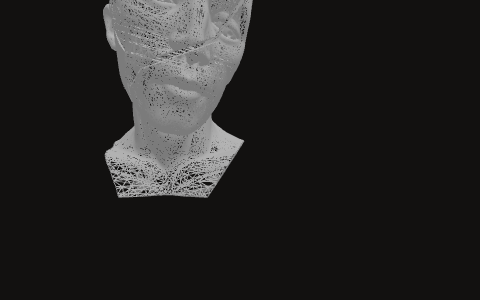
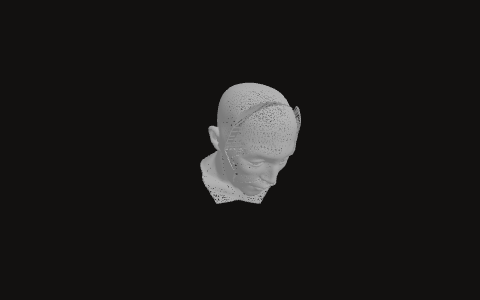
feat: generalist positioning and centred 3D models
- hero, about and meta reframed around generalist with specialization
- six-part capability map, oversized glyph removed
- centre models on their bounds, aim camera, pull back 14%
- regenerate thumbnails with margin; keep live hover preview
- more room for the chapter rail

Changed region(s): [[0.1875, 0.0, 0.625, 0.69]]

diff --git a/app/routes/home.tsx b/app/routes/home.tsx
@@ -11,8 +11,6 @@ import { UmlArchitecture } from "~/components/UmlArchitecture";
 import { Workflow } from "~/components/Workflow";
 import { Timeline } from "~/components/Timeline";
 import { FbxModelViewer } from "~/components/FbxModelViewer";
-import { LineArt } from "~/components/LineArt";
-import { ScrollDraw } from "~/components/ScrollDraw";
 import { caseStudies } from "~/data/caseStudies";
 import { craftProjects } from "~/data/craftProjects";
 import { demos } from "~/data/demos";
@@ -22,7 +20,7 @@ import { usePageBackground } from "~/hooks/usePageBackground";
 
 export const meta: Route.MetaFunction = () =>
   pageMeta({
-    title: "Lefinno Kwok | Engineering and craft",
+    title: "Lefinno Kwok | Generalist with a specialization",
     path: "/",
   });
 
@@ -60,11 +58,12 @@ export default function Home() {
         <div className="container section-hero">
           <GhostWord word="ENGINEERING" />
           <span className="eyebrow">Engineering / 01</span>
-          <h2 className="section-hero__title">I build AI systems that can be audited.</h2>
+          <h2 className="section-hero__title">Broad by default. Deep where it matters.</h2>
           <p className="lede">
-            Integration, infrastructure and research for systems where being
-            wrong is expensive. The work below is public; client engagements
-            are described only at the level of the engagement.
+            I am a generalist with a specialization in AI and ML. I move
+            between product, software, hardware and research, and go deep where
+            the risk is. Most of what I do is make an idea real, then explain it
+            clearly enough that someone else can run it.
           </p>
           <div className="hero-actions">
             <a className="btn btn--solid" href="#case-pdss">
@@ -89,42 +88,83 @@ export default function Home() {
         </div>
 
         <div className="container">
-          <SectionHead num="03" title="Capabilities" />
+          <SectionHead num="03" title="Capabilities" range="Range and depth" />
+          <p className="capabilities__lede">
+            Generalist breadth with specialist depth. I am most useful at the
+            seam between disciplines: scoping the idea, building the system, and
+            translating it for the people who have to run it.
+          </p>
           <div className="skill-grid">
             <div className="skill-block">
-              <h3>AI systems</h3>
+              <div className="skill-block__top">
+                <span className="skill-block__num">01</span>
+                <span className="skill-block__tag">Range</span>
+              </div>
+              <h3>Product and delivery</h3>
               <p>
-                LLM orchestration, evaluation design, Bayesian networks,
-                decision processes, multi-criteria analysis, uncertainty
-                quantification and provenance.
+                Scoping ambiguous briefs, writing proposals, coordinating across
+                teams, and carrying an idea from demo to something someone else
+                can run.
               </p>
             </div>
             <div className="skill-block">
-              <h3>Integration</h3>
+              <div className="skill-block__top">
+                <span className="skill-block__num">02</span>
+                <span className="skill-block__tag">Range</span>
+              </div>
+              <h3>Software</h3>
               <p>
-                Single sign-on, directory synchronisation, data access
-                services, alerting and vendor adaptation, in Go, Rust and Java.
+                TypeScript and React, Go, Rust, Java and Python. Frontends,
+                APIs, data access and integration; typed boundaries over glue.
               </p>
             </div>
             <div className="skill-block">
-              <h3>Infrastructure</h3>
+              <div className="skill-block__top">
+                <span className="skill-block__num">03</span>
+                <span className="skill-block__tag">Specialization</span>
+              </div>
+              <h3>AI and ML</h3>
               <p>
-                Linux, Docker, Kubernetes, systemd, Caddy, offline deployment,
-                high availability, audit trails and backups.
+                LLM orchestration, evaluation design, Bayesian decision models,
+                computer vision, uncertainty and provenance. The area where I go
+                deepest.
               </p>
             </div>
             <div className="skill-block">
-              <h3>Research</h3>
+              <div className="skill-block__top">
+                <span className="skill-block__num">04</span>
+                <span className="skill-block__tag">Depth</span>
+              </div>
+              <h3>Systems and infrastructure</h3>
+              <p>
+                Linux, Docker, Kubernetes, networking, offline deployment, high
+                availability, observability and backups.
+              </p>
+            </div>
+            <div className="skill-block">
+              <div className="skill-block__top">
+                <span className="skill-block__num">05</span>
+                <span className="skill-block__tag">Range</span>
+              </div>
+              <h3>Hardware and interaction</h3>
+              <p>
+                KiCad boards, ESP32 firmware, FreeCAD and 3D printing, game
+                engines and interactive installations.
+              </p>
+            </div>
+            <div className="skill-block">
+              <div className="skill-block__top">
+                <span className="skill-block__num">06</span>
+                <span className="skill-block__tag">Range</span>
+              </div>
+              <h3>Research and communication</h3>
               <p>
                 Literature-grounded design, baseline evaluation, failure
-                analysis and technical writing. Comfortable publishing
-                limitations, not just results.
+                analysis and technical writing. Explaining tradeoffs to
+                technical and non-technical teams.
               </p>
             </div>
           </div>
-          <ScrollDraw>
-            <LineArt variant="connector" className="" />
-          </ScrollDraw>
         </div>
 
         <div className="container">
@@ -273,7 +313,7 @@ export default function Home() {
           <h2 className="section-hero__title">One workflow, many systems.</h2>
           <p className="lede">
             A repeatable path from an unclear problem to something that can be
-            operated and audited. The same five moves apply to a service, a
+            operated and maintained. The same five moves apply to a service, a
             board or a model. The drawings below are two artifacts from that
             path, not a catalogue of the only shapes I work in.
           </p>
@@ -381,19 +421,19 @@ export default function Home() {
           <GhostWord word="ABOUT" />
           <div>
             <span className="eyebrow">About / 05</span>
-            <h2 className="section-hero__title">Two registers, one builder.</h2>
+            <h2 className="section-hero__title">A generalist with a specialization.</h2>
             <p>
-              I am an AI platform engineer in Hong Kong. I build systems where
-              correctness matters, and I make games and hardware where
-              experience matters. The two are not a side project and a job;
-              they are the same practice applied to different materials.
+              I am a builder in Hong Kong. Generalist by default, with a
+              specialization in AI and ML. I move between product, software,
+              hardware and research; the common thread is making an idea real
+              and explaining it clearly enough that someone else can run it.
             </p>
             <p>
               I studied computer science at HKU, worked across an embedded
-              startup, a science park and a consultancy, and now deploy an
-              enterprise AI platform. What I care about is the unglamorous
-              middle: provenance, audit trails, integration, tests, release
-              processes.
+              startup, a science park and a consultancy, and now build an
+              enterprise AI platform. I care about the unglamorous middle:
+              integration, tests, release processes, and the parts that decide
+              whether a system survives contact with reality.
             </p>
           </div>
           <div className="about-facts">
@@ -473,7 +513,7 @@ export default function Home() {
             </a>
           </div>
           <p className="footer-note" style={{ marginTop: 40, maxWidth: "56ch" }}>
-            Based in Hong Kong. Available for conversations about AI
+            Based in Hong Kong. Available for conversations about product,
             engineering, platform roles and game development. Client work is
             discussed at the level of engineering, never at the level of the
             client.

diff --git a/app/app.css b/app/app.css
@@ -3464,3 +3464,67 @@ html.lenis body {
     height: 132px;
   }
 }
+
+/* ---------- capability map ---------- */
+
+.capabilities__lede {
+  margin: 0 0 28px;
+  max-width: 72ch;
+  font-size: 16px;
+  line-height: 1.65;
+  color: var(--body-muted);
+}
+
+.skill-grid {
+  display: grid;
+  grid-template-columns: repeat(3, minmax(0, 1fr));
+  gap: 0 34px;
+}
+
+.skill-block {
+  border-top: 1px solid var(--line);
+  padding: 14px 0 24px;
+}
+
+.skill-block__top {
+  display: flex;
+  align-items: baseline;
+  justify-content: space-between;
+  gap: 12px;
+}
+
+.skill-block__num {
+  font-family: var(--mono);
+  font-size: 9px;
+  letter-spacing: 0.12em;
+  color: var(--accent);
+}
+
+.skill-block__tag {
+  font-family: var(--mono);
+  font-size: 8px;
+  letter-spacing: 0.12em;
+  text-transform: uppercase;
+  color: var(--muted);
+}
+
+.skill-block h3 {
+  margin: 12px 0 8px;
+  font-size: 18px;
+}
+
+.skill-block p {
+  font-size: 13.5px;
+}
+
+@media (max-width: 1050px) {
+  .skill-grid {
+    grid-template-columns: repeat(2, minmax(0, 1fr));
+  }
+}
+
+@media (max-width: 700px) {
+  .skill-grid {
+    grid-template-columns: 1fr;
+  }
+}

diff --git a/app/components/Chooser.tsx b/app/components/Chooser.tsx
@@ -14,15 +14,15 @@ export function Chooser() {
         <div className="half__mid">
           <h2 id="chooser-engineering">Engineering</h2>
           <p>
-            AI systems, integration, infrastructure and research. Judged on
-            correctness, reliability and delivery.
+            Product, software, systems and research. Broad by default, deep
+            where it matters.
           </p>
         </div>
         <div className="half__bottom">
           <div className="preview">
             <span>Currently</span>
             <strong>Analyst, Deloitte</strong>
-            <span>Enterprise AI platform, 2026 to present</span>
+            <span>Enterprise platform, 2026 to present</span>
           </div>
           <span className="enter">Enter engineering</span>
         </div>

diff --git a/app/components/FbxModelViewer.tsx b/app/components/FbxModelViewer.tsx
@@ -53,7 +53,12 @@ export function FbxModelViewer({
       0.1,
       1000
     );
-    camera.position.set(0, config.cameraY, config.cameraZ);
+    camera.position.set(
+      0,
+      config.cameraY * 1.14,
+      config.cameraZ * 1.14
+    );
+    camera.lookAt(0, 0, 0);
 
     const renderer = new THREE.WebGLRenderer({
       alpha: true,
@@ -86,6 +91,10 @@ export function FbxModelViewer({
       const scale = config.scale ?? 0.1;
       group.scale.set(scale, scale, scale);
       group.rotation.y = startRotation;
+
+      const bounds = new THREE.Box3().setFromObject(group);
+      const center = bounds.getCenter(new THREE.Vector3());
+      group.position.sub(center);
 
       group.traverse((child) => {
         if ((child as THREE.Mesh).isMesh) {

diff --git a/app/lib/meta.ts b/app/lib/meta.ts
@@ -4,7 +4,7 @@ export const SITE_URL = "https://www.lefinnokwok.com";
 export const SITE_NAME = "Lefinno Kwok";
 export const OG_IMAGE = `${SITE_URL}/og-image.png`;
 export const DEFAULT_DESCRIPTION =
-  "Portfolio of Lefinno Kwok: AI systems, integration and research on one side, games, hardware and interactive work on the other.";
+  "Portfolio of Lefinno Kwok: a generalist with a specialization in AI and ML, moving between software, systems, hardware and craft.";
 
 export function pageMeta({
   title,

diff --git a/app/root.tsx b/app/root.tsx
@@ -31,7 +31,7 @@ export const links: Route.LinksFunction = () => [
 
 export const meta: Route.MetaFunction = () =>
   pageMeta({
-    title: "Lefinno Kwok | AI systems and craft",
+    title: "Lefinno Kwok | Generalist with a specialization",
     path: "/",
   });
 

diff --git a/docs/compose/spec/portfolio-rebuild.md b/docs/compose/spec/portfolio-rebuild.md
@@ -31,7 +31,7 @@ source: feat/portfolio-v2
 
 **Architecture pass** — UML now explains the pipeline before the live demo and requires a user-supplied key; Systems leads with a general workflow and presents the diagrams as two artifacts.
 
-**Depth pass** — Demo cards and 3D thumbnails both gained the model frame's radial falloff, fading grid and inset shadow with simpler outlines. Thumbnails are larger and separated from copy; the rail now only appears when there is room for it.
+**Positioning pass** — The portfolio now leads with generalist breadth and specialist depth, with a six-part capability map and no oversized glyph. All 3D models are bounding-box centred and pulled back, with regenerated thumbnails.
 
 **Verification** — `npm run typecheck` PASS. `npm run build` PASS, prerendering `/`, `/engineering`, `/craft`, `/about`, `/contact`, `/projects`, the three case pages and five craft pages, then writing the SPA fallback and `404.html`. Manual visual checks at 1440px and 390px. Independent review returned no remaining critical or major issues after fixes for the duplicate H1, link names, duplicate Eccentricity page, redirect metadata and data-derived prerender slugs.
 
@@ -203,6 +203,23 @@ Collapsed project rows now use stills rendered from the same 3D models as the ex
 - Hovering or focusing a row swaps that thumbnail for a live rotating viewer, one context at a time. Expanding a row opens the full model plinth.
 - The generic `LineArt` variant remains as a fallback when a project has no model thumbnail.
 
+### S2.21 Positioning
+
+The portfolio is positioned around **generalist with a specialization**, not AI engineer:
+
+- Engineering hero: "Broad by default. Deep where it matters."
+- Copy names product, software, hardware and research, with AI and ML as the specialization rather than the identity.
+- Six capability blocks: product and delivery, software, AI and ML, systems and infrastructure, hardware and interaction, research and communication. Each carries a Range, Depth or Specialization tag.
+- The oversized connector glyph was removed; the section is text and grid, not decoration.
+- About and meta copy use the same framing. Audit language is limited to the PDSS case study rather than used as the personal brand.
+
+### S2.22 3D framing
+
+- Loaded models are centred on their bounding box before rotation, and the camera now calls `lookAt(0,0,0)`.
+- Camera distance is pulled back 14%, so models sit inside the frame rather than against its edges.
+- Thumbnail stills were re-rendered with lower per-model zoom and checked for margin.
+- The live hover preview uses the same centred viewer.
+
 ### S2.7 Performance and accessibility
 
 Demos stay lazy-loaded and mount only when visible. Fonts are self-hosted and subset. Targets: Lighthouse performance 90+ on both landings, no layout shift from fonts, 4.5:1 body contrast, visible focus rings, skip link, semantic heading order, keyboard-operable chooser.
@@ -218,6 +235,8 @@ CMS, blog, authentication, newsletter, multilingual UI, redesign of demo interna
 - [x] T13: Demos restored — acceptance: CPU, gesture, ML, UML, diagrams and 3D models render on the site. (covers: S2.8)
 - [x] T15: Demo frame and brand tokens — acceptance: demos render inside a paper frame with an ink stage and ember accents; expand works. (covers: S2.9)
 - [x] T16: Demo index and detail pages — acceptance: `/demos` lists eight entries and each detail page mounts its demo. (covers: S2.9)
+- [x] T38: Generalist positioning — acceptance: hero, capabilities, about and meta avoid AI-engineer framing and audit emphasis. (covers: S2.21)
+- [x] T37: Centred 3D models — acceptance: all models are centred and have margin in stills and live frames. (covers: S2.22)
 - [x] T36: Framed model thumbnails — acceptance: 3D thumbnails carry the depth treatment and clear the copy. (covers: S2.20)
 - [x] T35: Live project previews — acceptance: hover/focus swaps a still for one live model. (covers: S2.20)
 - [x] T34: Model thumbnails — acceptance: project rows show stills of their actual models. (covers: S2.20)
